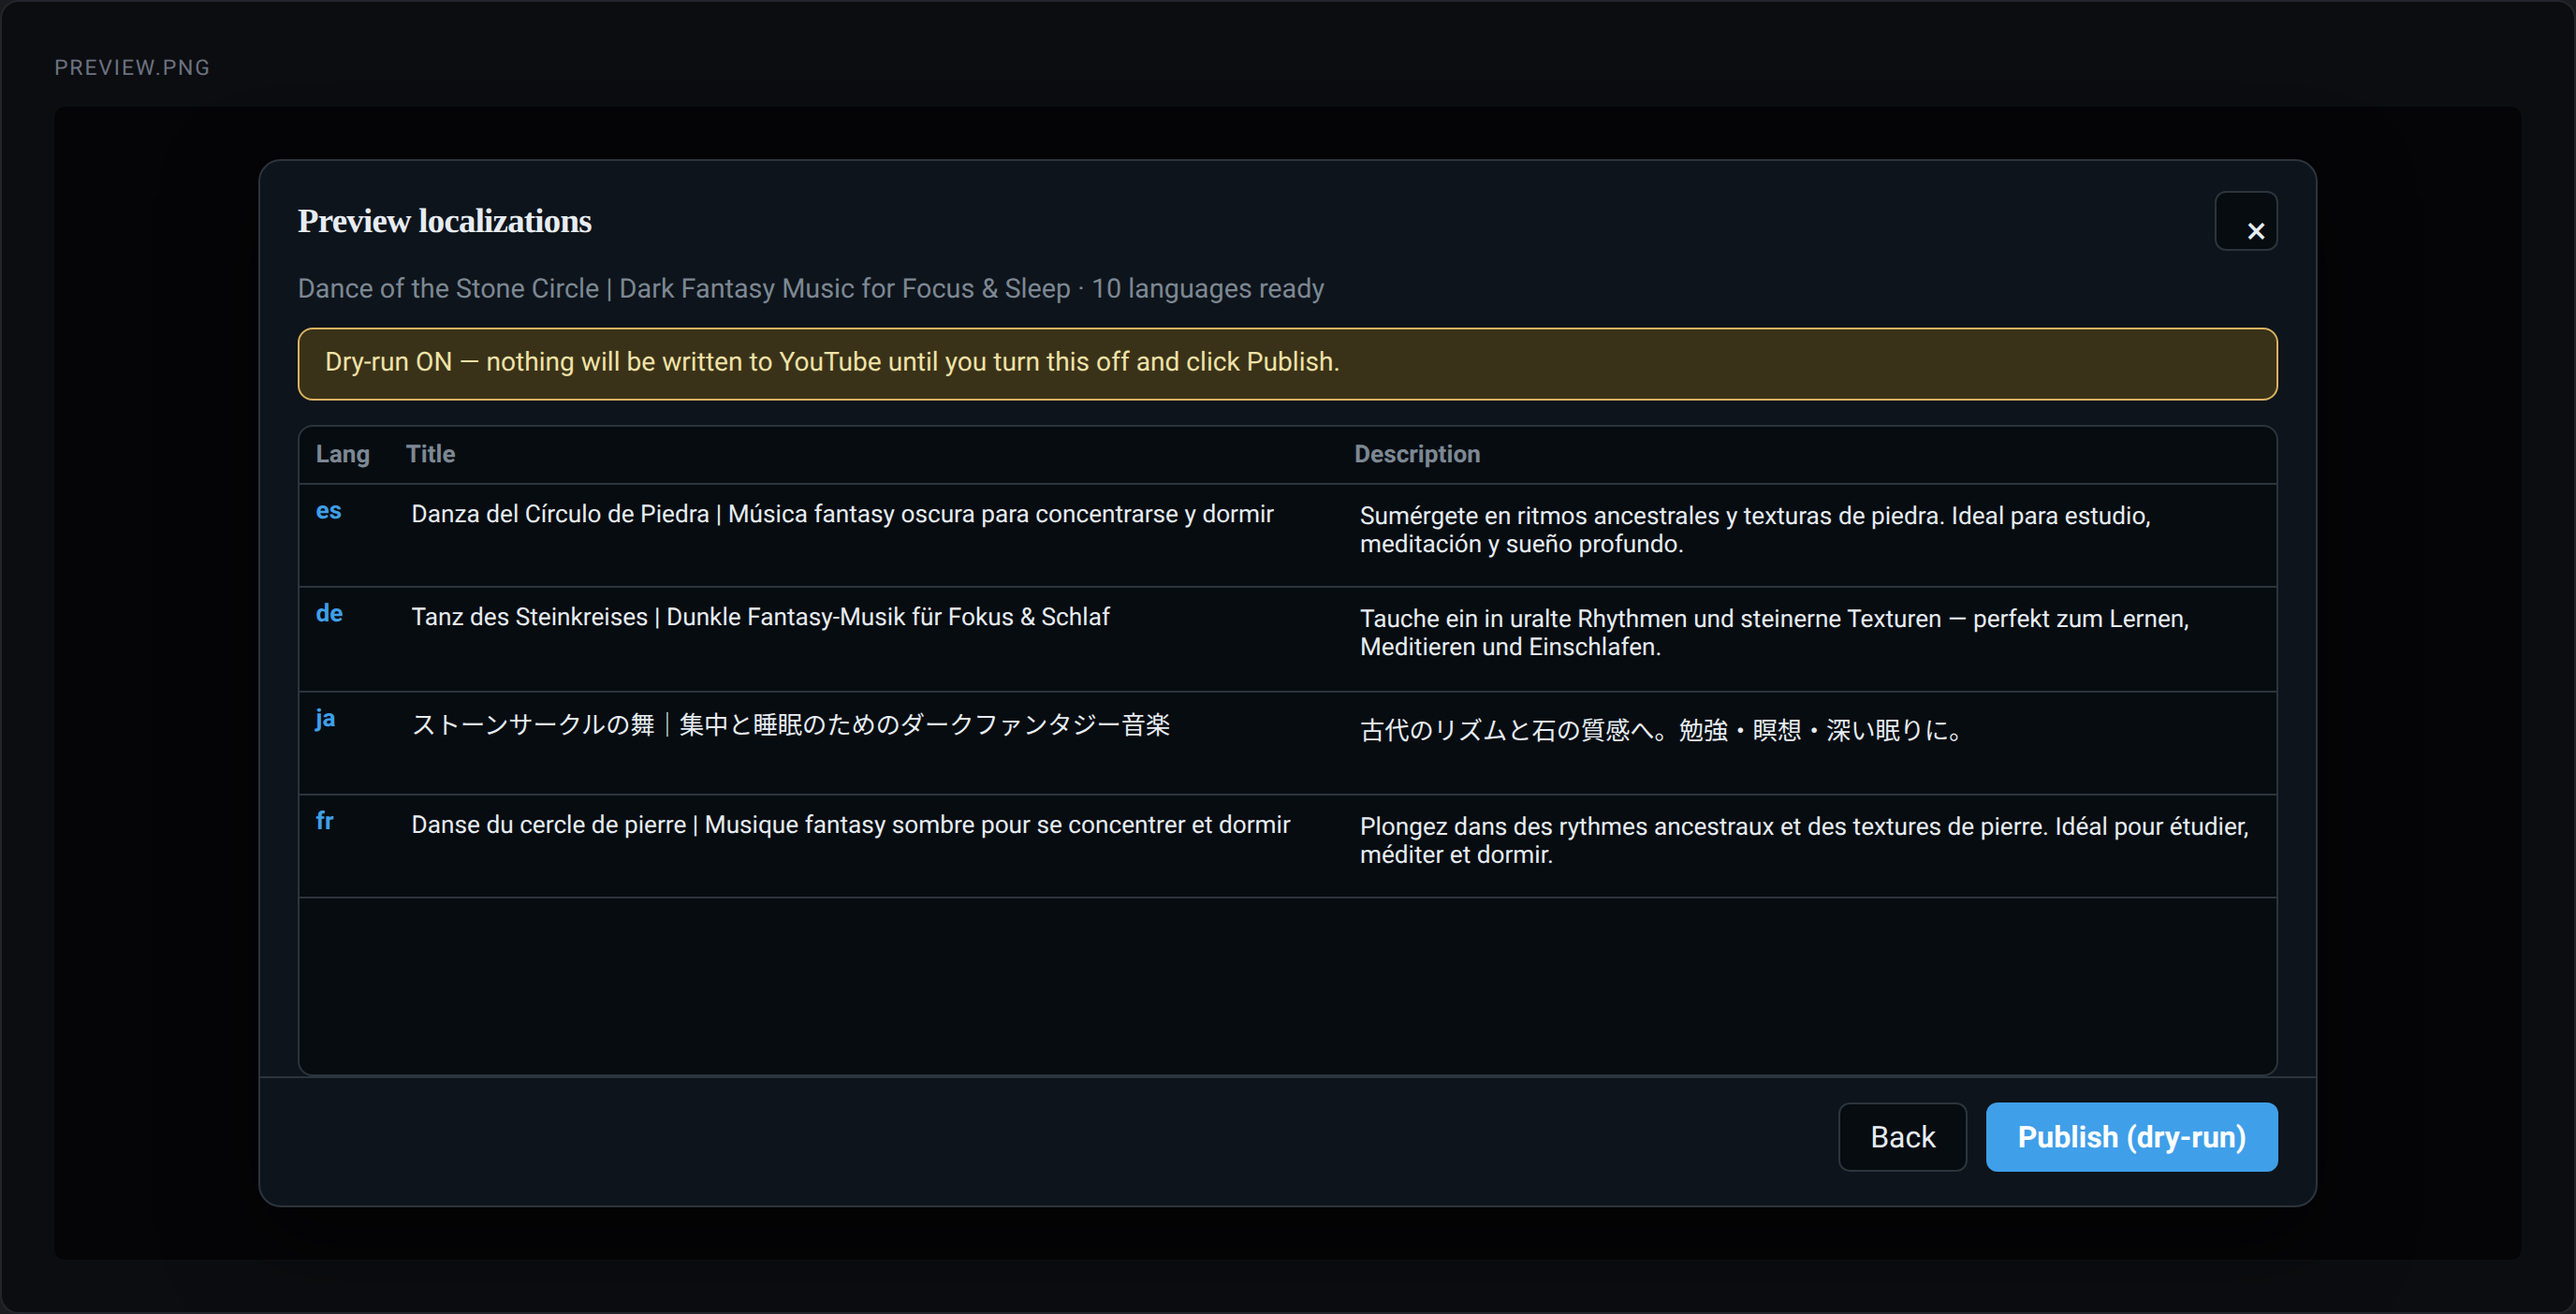
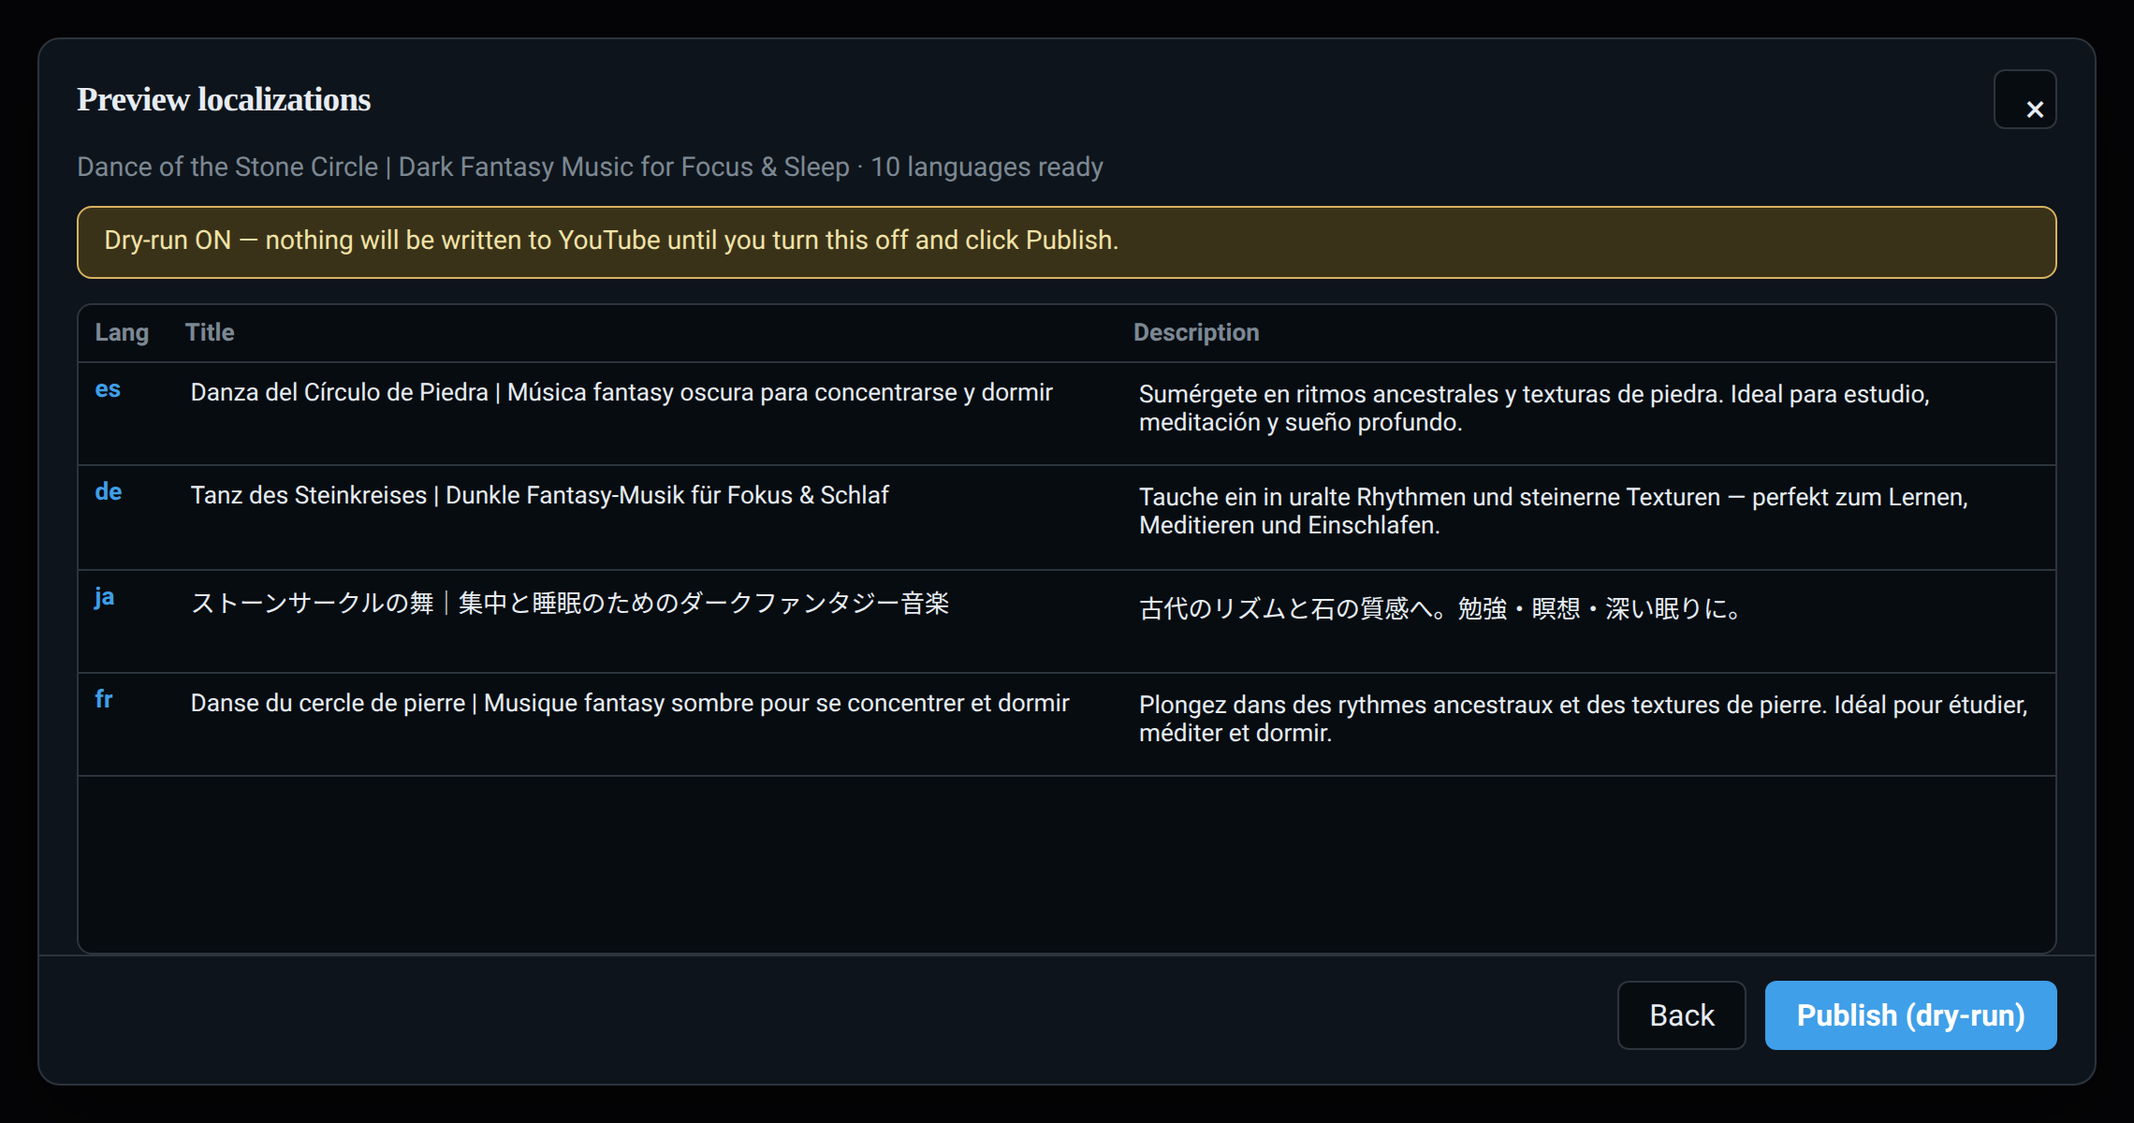
Rename to YT Localizer

diff --git a/extension/dev/mock.html b/extension/dev/mock.html
@@ -3,7 +3,7 @@
   <head>
     <meta charset="UTF-8" />
     <meta name="viewport" content="width=device-width, initial-scale=1" />
-    <title>VeilTranslate mock harness (dev)</title>
+    <title>YT Localizer mock harness (dev)</title>
     <style>
       :root {
         --bg: oklch(15% 0.014 250);
@@ -31,13 +31,6 @@
         padding: 28px;
         border-radius: 10px;
         border: 1px solid #22262c;
-      }
-      .shot-label {
-        color: #6b7280;
-        font-size: 0.72rem;
-        margin-bottom: 14px;
-        text-transform: uppercase;
-        letter-spacing: 0.08em;
       }
       .studio-bg {
         background:
@@ -80,6 +73,11 @@
         align-items: center;
         justify-content: space-between;
         padding: 1rem 1.25rem 0.75rem;
+      }
+      .vt-brand-mark {
+        display: block; font-size: 0.65rem; font-weight: 600;
+        letter-spacing: 0.12em; text-transform: uppercase;
+        color: var(--muted); margin-bottom: 0.2rem;
       }
       .vt-panel h2 {
         margin: 0; font-size: 1.15rem; font-family: var(--font-display);
@@ -275,15 +273,17 @@
     </style>
   </head>
   <body>
-    <h1 class="dev-title">VeilTranslate mock harness — demo data only, no network</h1>
+    <h1 class="dev-title">YT Localizer mock harness — demo data only, no network</h1>
 
     <!-- LANGUAGE PICKER -->
     <div class="shot" id="shot-modal-languages">
-      <div class="shot-label">modal-languages.png</div>
       <div class="vt-frame">
         <div class="vt-panel picker" role="dialog" aria-modal="true">
           <div class="vt-panel-head">
-            <h2>Auto Titles &amp; Description</h2>
+            <div>
+              <span class="vt-brand-mark">YT Localizer</span>
+              <h2>Auto Titles &amp; Description</h2>
+            </div>
             <button type="button" class="vt-icon-btn" aria-label="Close">×</button>
           </div>
           <div class="vt-meta">Dance of the Stone Circle | Dark Fantasy Music for Focus &amp; Sleep · default: en</div>
@@ -323,7 +323,6 @@
 
     <!-- TRANSLATING -->
     <div class="shot" id="shot-translating">
-      <div class="shot-label">translating.png</div>
       <div class="vt-frame">
         <div class="vt-panel" role="dialog" aria-modal="true">
           <div class="vt-panel-head">
@@ -364,7 +363,6 @@
 
     <!-- PREVIEW -->
     <div class="shot" id="shot-preview">
-      <div class="shot-label">preview.png</div>
       <div class="vt-frame">
         <div class="vt-panel preview" role="dialog" aria-modal="true">
           <div class="vt-panel-head">
@@ -412,7 +410,6 @@
 
     <!-- WIDGET -->
     <div class="shot" id="shot-widget">
-      <div class="shot-label">widget.png</div>
       <div class="studio-bg">
         <div class="studio-chrome">studio.youtube.com · Video details · demo channel</div>
         <div style="color:#888;font-size:1.05rem;max-width:28rem;line-height:1.35;">
@@ -430,12 +427,11 @@
 
     <!-- POPUP -->
     <div class="shot" id="shot-popup">
-      <div class="shot-label">popup.png</div>
       <div class="popup">
         <header>
           <div>
             <p class="brand-mark">Open source</p>
-            <h1>VeilTranslate</h1>
+            <h1>YT Localizer</h1>
           </div>
           <a href="#">Options</a>
         </header>
@@ -464,10 +460,9 @@
 
     <!-- OPTIONS -->
     <div class="shot" id="shot-options">
-      <div class="shot-label">options.png</div>
       <div class="options-wrap">
         <p class="brand-mark">Open source</p>
-        <h1>VeilTranslate</h1>
+        <h1>YT Localizer</h1>
         <p class="sub">Configure languages, engines, and publishing defaults.</p>
 
         <div class="opt-section">

diff --git a/extension/src/content.ts b/extension/src/content.ts
@@ -563,7 +563,7 @@ async function openQuickModal() {
         skipExisting,
       });
       if (!res?.ok) {
-        alert(`VeilTranslate: ${res?.error ?? 'Unknown error'}`);
+        alert(`YT Localizer: ${res?.error ?? 'Unknown error'}`);
         return;
       }
       connectJobPort();
@@ -639,7 +639,7 @@ async function openQuickModal() {
     panel.innerHTML = `
       <div class="vt-panel-head">
         <div>
-          <span class="vt-brand-mark">VeilTranslate</span>
+          <span class="vt-brand-mark">YT Localizer</span>
           <h2 id="vt-title">Auto Titles &amp; Description</h2>
         </div>
         <button type="button" class="vt-icon-btn" id="vt-x" aria-label="Close">×</button>
@@ -773,7 +773,7 @@ async function openQuickModal() {
   } catch (err) {
     removeModal();
     uiExpanded = false;
-    alert(`VeilTranslate: ${err instanceof Error ? err.message : String(err)}`);
+    alert(`YT Localizer: ${err instanceof Error ? err.message : String(err)}`);
   }
 }
 
@@ -1241,7 +1241,7 @@ async function retryLanguages(videoId: string, languages: string[]) {
     skipExisting: false,
   });
   if (!res?.ok) {
-    alert(`VeilTranslate: ${res?.error ?? 'Retry failed'}`);
+    alert(`YT Localizer: ${res?.error ?? 'Retry failed'}`);
     return;
   }
   connectJobPort();

diff --git a/extension/src/content.css b/extension/src/content.css
@@ -1,5 +1,5 @@
-/* Hallmark · genre: atmospheric · macrostructure: Workbench · theme: custom (Veil)
- * vibe: dark mystical restrained · cool blue accent · designed-as-app · design-system: design.md
+/* Hallmark · genre: atmospheric · macrostructure: Workbench · theme: custom (Localizer)
+ * vibe: dark Studio-adjacent restrained · cool blue accent · designed-as-app · design-system: design.md
  * states: default · hover · focus · active · disabled · loading · error · success
  * contrast: pass (scoped Studio overlay)
  * pre-emit critique: P5 H5 E4 S5 R5 V4
@@ -48,7 +48,7 @@
   -webkit-font-smoothing: antialiased;
 }
 
-/* Studio light theme companion — still Veil-branded, not a white SaaS card */
+/* Studio light theme companion — still Localizer-branded, not a white SaaS card */
 html:not([dark]):not([darker-dark-theme]) #veil-translate-btn,
 html:not([dark]):not([darker-dark-theme]) #vt-job-widget,
 html:not([dark]):not([darker-dark-theme]) #vt-modal-root {

diff --git a/extension/src/oauth.ts b/extension/src/oauth.ts
@@ -46,7 +46,7 @@ async function parseTokenResponse(responseUrl: string): Promise<TokenResult> {
 async function launchWebAuth(opts: OAuthLaunchOpts): Promise<TokenResult> {
   const settings = await getSettings();
   if (!settings.oauthClientId.trim()) {
-    throw new Error('Set OAuth Client ID in VeilTranslate options first.');
+    throw new Error('Set OAuth Client ID in YT Localizer options first.');
   }
 
   const redirectUri = chrome.identity.getRedirectURL();
@@ -151,7 +151,7 @@ async function persistConnectedChannel(tokens: TokenResult): Promise<ConnectedCh
 export async function getValidAccessToken(channelId: string): Promise<string> {
   let channel = await getChannel(channelId);
   if (!channel) {
-    throw new Error(`Channel ${channelId} is not connected. Add it in the VeilTranslate popup.`);
+    throw new Error(`Channel ${channelId} is not connected. Add it in the YT Localizer popup.`);
   }
 
   if (isAccessTokenFresh(channel)) return channel.accessToken;

diff --git a/cli/src/index.ts b/cli/src/index.ts
@@ -1,6 +1,6 @@
 #!/usr/bin/env node
 /**
- * yt-translate <videoId> --langs es,de,pl --engine gemini --dry-run
+ * yt-localizer <videoId> --langs es,de,pl --engine gemini --dry-run
  */
 import { readFileSync, writeFileSync, existsSync, mkdirSync } from 'node:fs';
 import { resolve, dirname } from 'node:path';
@@ -141,7 +141,7 @@ async function loopbackAuth(secrets: Secrets): Promise<string> {
 async function main() {
   const { videoId, langs, engine, dryRun } = parseArgs(process.argv);
   if (!videoId || !langs.length) {
-    console.log(`Usage: yt-translate <videoId> --langs es,de,pl [--engine gemini|deepl|libretranslate] [--dry-run|--publish]`);
+    console.log(`Usage: yt-localizer <videoId> --langs es,de,pl [--engine gemini|deepl|libretranslate] [--dry-run|--publish]`);
     process.exit(1);
   }
 

diff --git a/extension/popup.html b/extension/popup.html
@@ -3,7 +3,7 @@
   <head>
     <meta charset="UTF-8" />
     <meta name="viewport" content="width=device-width, initial-scale=1" />
-    <title>VeilTranslate</title>
+    <title>YT Localizer</title>
     <link rel="stylesheet" href="/src/popup.css" />
   </head>
   <body>
@@ -11,7 +11,7 @@
       <header>
         <div class="brand">
           <p class="brand-mark">Open source</p>
-          <h1>VeilTranslate</h1>
+          <h1>YT Localizer</h1>
         </div>
         <a href="#" id="openOptions">Options</a>
       </header>

diff --git a/extension/options.html b/extension/options.html
@@ -3,13 +3,13 @@
   <head>
     <meta charset="UTF-8" />
     <meta name="viewport" content="width=device-width, initial-scale=1" />
-    <title>VeilTranslate Options</title>
+    <title>YT Localizer Options</title>
     <link rel="stylesheet" href="/src/options.css" />
   </head>
   <body>
     <main class="wrap">
       <p class="brand-mark">Open source</p>
-      <h1>VeilTranslate</h1>
+      <h1>YT Localizer</h1>
       <p class="sub">Configure languages, engines, and publishing defaults.</p>
 
       <section>

diff --git a/tokens.css b/tokens.css
@@ -1,5 +1,5 @@
-/* Hallmark · genre: atmospheric · macrostructure: Workbench · theme: custom (Veil)
- * vibe: dark mystical restrained · cool blue accent
+/* Hallmark · genre: atmospheric · macrostructure: Workbench · theme: custom (Localizer)
+ * vibe: dark Studio-adjacent restrained · cool blue accent
  * paper: oklch(15% 0.014 250) · accent: oklch(68% 0.140 245) blue
  * display: Georgia · body: Roboto
  * theme_axes: dark / roman-serif / cool

diff --git a/extension/src/options.css b/extension/src/options.css
@@ -1,4 +1,4 @@
-/* Hallmark · genre: atmospheric · macrostructure: Workbench · theme: custom (Veil)
+/* Hallmark · genre: atmospheric · macrostructure: Workbench · theme: custom (Localizer)
  * designed-as-app · design-system: design.md
  * states: default · hover · focus · active · disabled · loading · error · success
  * pre-emit critique: P5 H5 E4 S5 R5 V4

diff --git a/extension/src/popup.css b/extension/src/popup.css
@@ -1,4 +1,4 @@
-/* Hallmark · genre: atmospheric · macrostructure: Workbench · theme: custom (Veil)
+/* Hallmark · genre: atmospheric · macrostructure: Workbench · theme: custom (Localizer)
  * designed-as-app · design-system: design.md
  * states: default · hover · focus · active · disabled · loading · error · success
  * pre-emit critique: P5 H5 E4 S5 R5 V4

diff --git a/shared/src/text.test.ts b/shared/src/text.test.ts
@@ -31,8 +31,8 @@ describe('title truncation', () => {
 
 describe('hashtags', () => {
   it('extracts hashtags', () => {
-    expect(extractHashtags('Hello #VeilOfVeles and #Slavic')).toEqual([
-      '#VeilOfVeles',
+    expect(extractHashtags('Hello #AcmeChannel and #Slavic')).toEqual([
+      '#AcmeChannel',
       '#Slavic',
     ]);
   });

diff --git a/extension/src/background.ts b/extension/src/background.ts
@@ -372,7 +372,7 @@ async function resolveVideoAccess(videoId: string): Promise<
     return {
       ok: false,
       needsConnect: true,
-      error: 'No YouTube channels connected. Add one in the VeilTranslate popup.',
+      error: 'No YouTube channels connected. Add one in the YT Localizer popup.',
     };
   }
 
